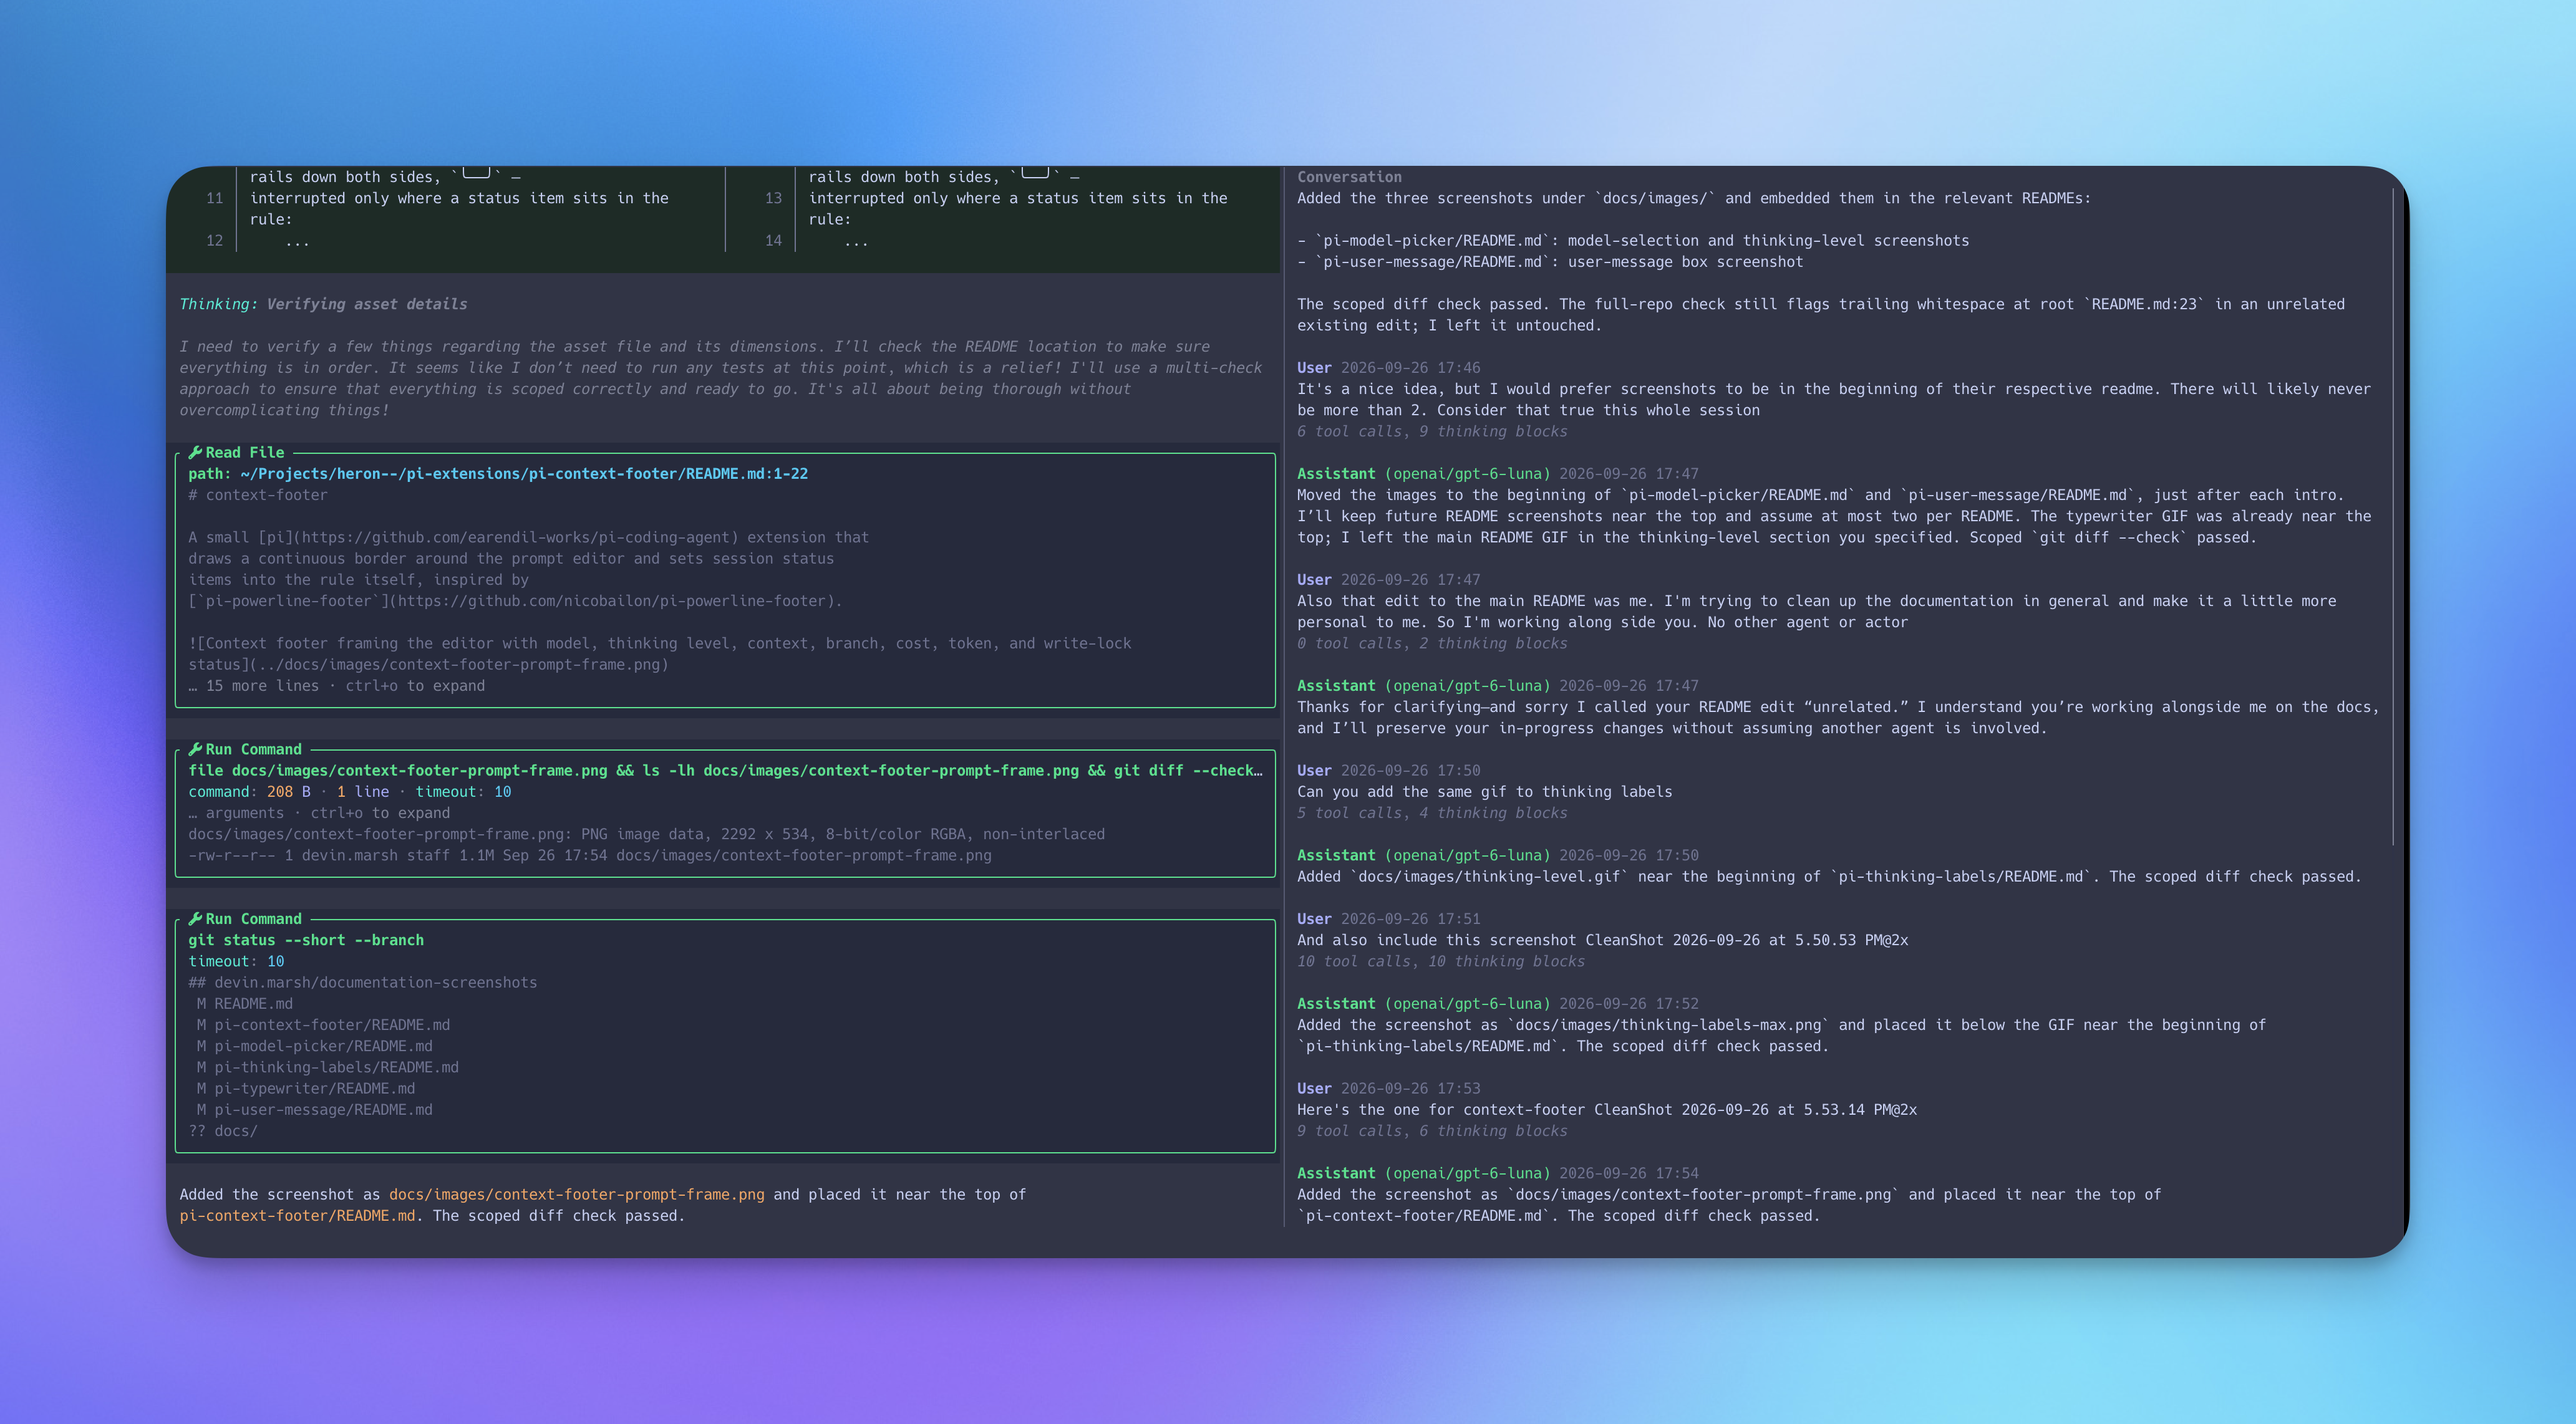
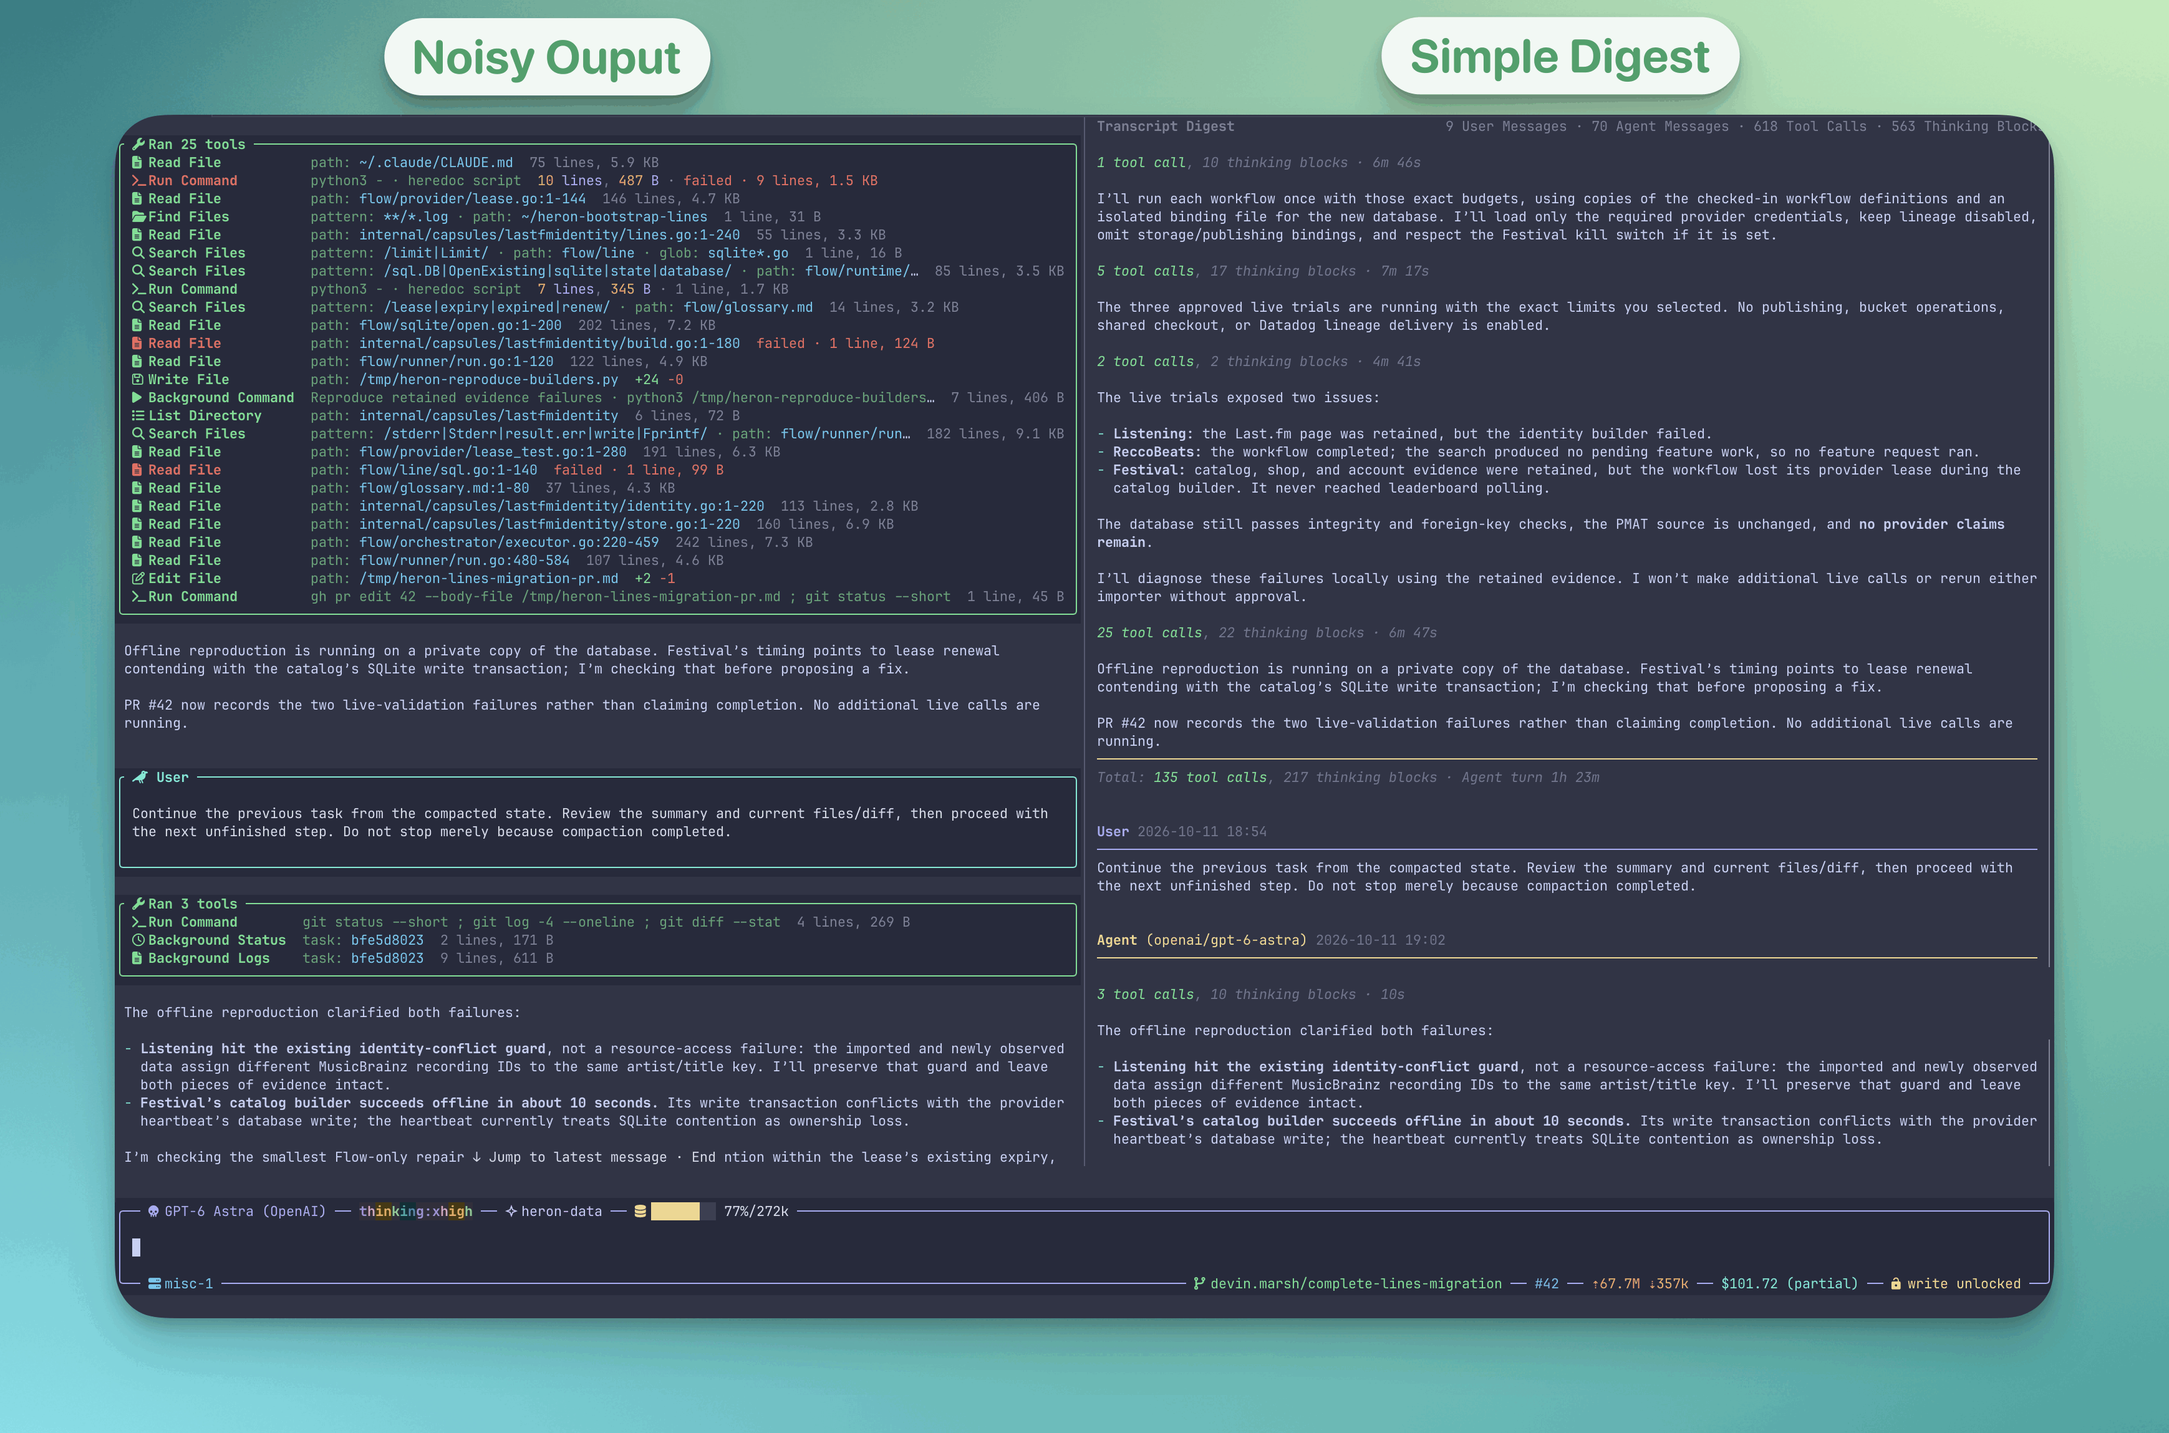
pi-transcript-digest: refresh screenshot and drop experimental label

diff --git a/pi-transcript-digest/README.md b/pi-transcript-digest/README.md
@@ -1,12 +1,12 @@
 # pi-transcript-digest
 
-An experimental [pi](https://github.com/earendil-works/pi-coding-agent) extension for the **fullscreen TUI**. `/transcript-digest` toggles a two-column transcript: Pi's existing feed (including tool calls, output, and its normal scrolling) on the left, and a separately scrollable conversation on the right. The editor, status, widgets, and footer remain full-width.
+A [pi](https://github.com/earendil-works/pi-coding-agent) extension for the **fullscreen TUI**. `/transcript-digest` toggles a two-column transcript: Pi's existing feed (including tool calls, output, and its normal scrolling) on the left, and a separately scrollable conversation on the right. The editor, status, widgets, and footer remain full-width.
 
 ![Fullscreen transcript digest split showing Pi's activity feed on the left and the conversation on the right](../docs/images/transcript-digest-fullscreen.png)
 
 ## Try it
 
-Link it with [`install.sh`](../README.md#install) from the repository root, then launch Pi from any directory:
+Link it with [`install.sh`](../README.md#install) from the repository root, then launch Pi from any directory. Fullscreen mode is the default from Pi 1.0.0; earlier versions need the flag:
 
 ```bash
 pi --tui-mode fullscreen
@@ -20,4 +20,4 @@ Below 36 terminal columns, the right pane is hidden; it reappears on resize. Swi
 
 ## Compatibility
 
-Fullscreen mode is required. The split is available only on supported Pi transcript layouts. Pi 0.85.1 and 0.87.1 are tested; Pi 0.84.1 lacks the mouse and scrollbar APIs used here.
+Fullscreen mode is required; it is Pi's default from 1.0.0. The split is available only on supported Pi transcript layouts. Pi 0.85.1 and 0.87.1 are tested; Pi 0.84.1 lacks the mouse and scrollbar APIs used here.

diff --git a/README.md b/README.md
@@ -37,10 +37,10 @@ Certainly some extensions had more intellectual engagement from me than others.
   extension tools in the shared dark house box, with readable names, a semantic
   one-line summary of each call, dimmed expandable output, and side-by-side or
   one-column diffs for edits and writes.
-- **[pi-transcript-digest](pi-transcript-digest/README.md)** — **EXPERIMENTAL** I really struggled to keep up
+- **[pi-transcript-digest](pi-transcript-digest/README.md)** — I really struggled to keep up
   with an Astra conversation with all of it's tool calls. I wanted a more compact view where I
   could just see our conversation. This exists in pi with the `/tree` command.
-  Requires fullscreen mode, which is itself experimental. I've been tuning the performance of
+  Requires fullscreen mode, the default from pi 1.0.0. I've been tuning the performance of
   this one to make sure it runs well.
 - **[pi-typewriter](pi-typewriter/README.md)** — I got motion sick when I first used Opus
   with pi because of how text streamed in as large chunks. This was one of my first
